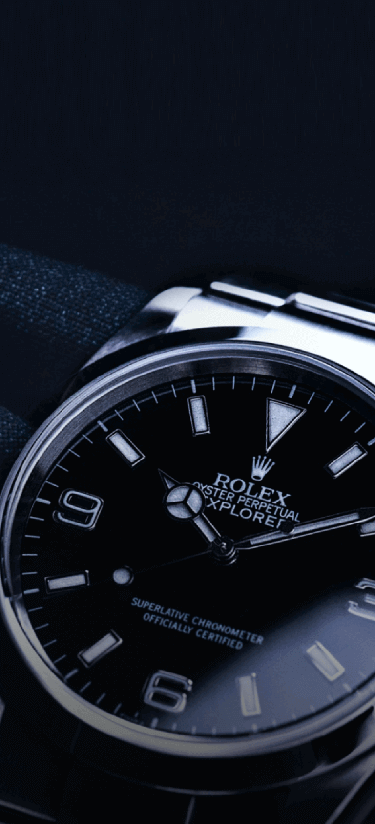
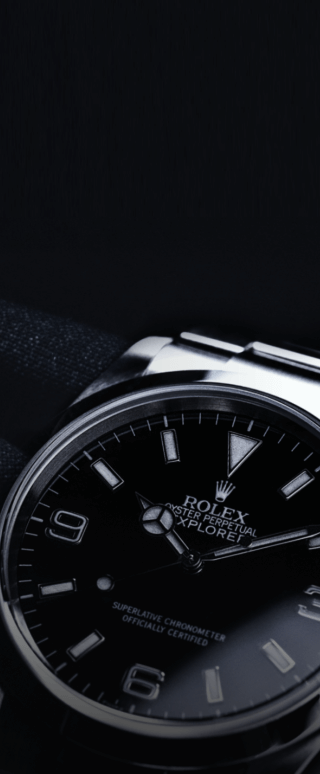
add blend img

diff --git a/src/components/organisms/home-title/style.module.scss b/src/components/organisms/home-title/style.module.scss
@@ -165,18 +165,18 @@
     padding: rem(50) rem(30) rem(100);
   }
 
-  &:before{
-    content: '';
-    @include full-abs;
-    z-index: -1;
-    height: 100%;
-    background: rgba(0, 0, 0, 0.4);
-    margin-left: calc((#{$subline} * 2) * -1);
-    margin-right: calc((#{$subline} * 2) * -1);
-    @include mmin($laptop){
-      display: none;
-    }
-  }
+  // &:before{
+  //   content: '';
+  //   @include full-abs;
+  //   z-index: -1;
+  //   height: 100%;
+  //   background: rgba(0, 0, 0, 0.4);
+  //   margin-left: calc((#{$subline} * 2) * -1);
+  //   margin-right: calc((#{$subline} * 2) * -1);
+  //   @include mmin($laptop){
+  //     display: none;
+  //   }
+  // }
 
   & > ul {
     margin: 0;
